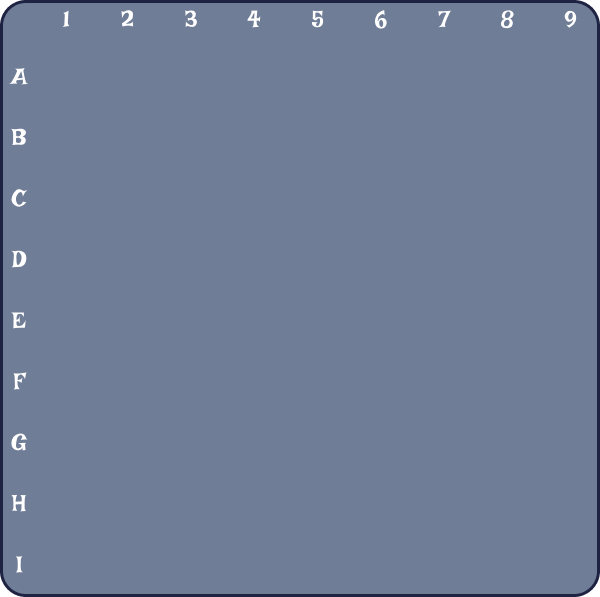
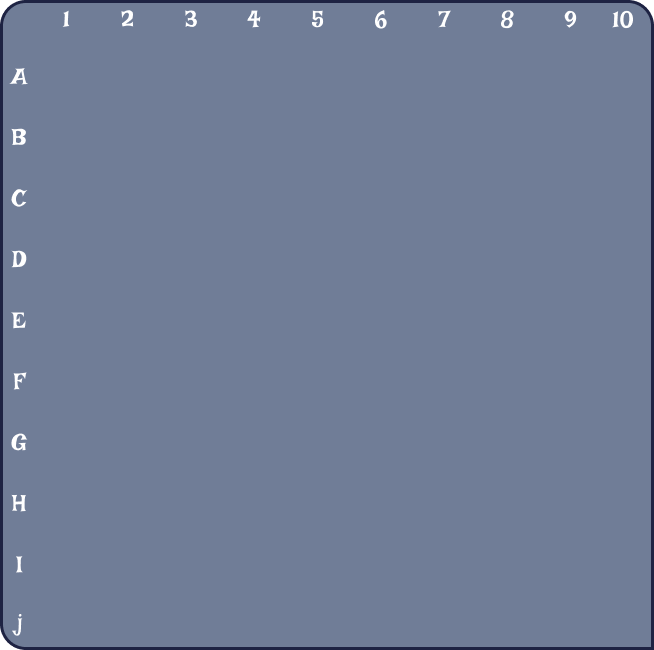
remake function of place ships

diff --git a/modules/classes/class_ship.py b/modules/classes/class_ship.py
@@ -1,6 +1,6 @@
 import pygame
 import os
-from ..screens import grid_player , list_grid
+from ..screens import grid_player , list_grid , list_object_map
 
  
 
@@ -22,9 +22,13 @@ class Ship:
         self.RECT = self.READY_IMAGE_SHIP.get_rect(topleft=(self.X_COR, self.Y_COR))#прямоугольник для того чтобы могли отслеживать курсор ли на кораблике или нет
         self.STASIC_X = self.X_COR # Static_x = это начальные координаты
         self.STASIC_Y = self.Y_COR # Static_y = это начальные координаты
-        self.number_ship = { # Словарь для хранения длины(координат) корабля 
-            self.LENGHT : [0]
-        }
+        self.number_cell = 0
+        self.row = 0
+        self.col = 0
+        self.number_ship_cell = 0
+        # self.number_ship = { # Словарь для хранения длины(координат) корабля 
+        #     self.LENGHT : [0]
+        # }
     
     # Метод загрузки картинок кораблей
     def load_image(self):
@@ -62,7 +66,7 @@ class Ship:
 
         # Учитываем, что клетки нумеруются с 1, поэтому:
         # Номер клетки = (строка * количество столбцов) + (столбец) + 1.
-        cell_number = row * 9 + col + 1
+        cell_number = row * 10 + col + 1
 
         # Возвращаем номер клетки.
         return cell_number
@@ -108,6 +112,8 @@ class Ship:
                         self.RECT = self.READY_IMAGE_SHIP.get_rect(topleft=(self.X_COR, self.Y_COR))
                         
     def matrix_move(self, event: pygame.event, matrix_width: int, matrix_height: int, cell: int):
+        
+        
         mouse = pygame.mouse.get_pos()  # Получаем текущие координаты мыши
 
         if event.type == pygame.MOUSEBUTTONDOWN and self.RECT.collidepoint(event.pos):
@@ -132,46 +138,92 @@ class Ship:
         elif event.type == pygame.MOUSEBUTTONUP and self.CHECK_MOVE:
             # Завершаем перемещение
             right_x = self.X_COR + self.WIDTH
-            print(right_x)
-            if grid_player.X_SCREEN <= self.X_COR and self.X_COR + self.RECT.width <= grid_player.X_SCREEN + 558:
-                if grid_player.Y_SCREEN <= self.Y_COR and self.Y_COR + self.RECT.height <= grid_player.Y_SCREEN + 558:
+            
+            if grid_player.X_SCREEN - 30 <= self.X_COR and self.X_COR + self.RECT.width <= grid_player.X_SCREEN + 650:
+                if grid_player.Y_SCREEN - 30 <= self.Y_COR and self.Y_COR + self.RECT.height <= grid_player.Y_SCREEN + 650:
                     self.snap_to_grid()
-                    number_ship_cell = self.center_to_cell_number(x = self.X_COR,y = self.Y_COR)
+                    self.number_ship_cell = self.center_to_cell_number(x = self.X_COR,y = self.Y_COR)
 
-                    if self.LENGHT == 4:
-                        self.number_ship[self.LENGHT] = [number_ship_cell]
-                        if self.ORIENTATION_SHIP == "horizontal":
-                            for coord_ship in range(1, self.LENGHT):
-                                self.number_ship[self.LENGHT].append(number_ship_cell + coord_ship)
-                        elif self.ORIENTATION_SHIP == "vertical":
-                            for coord_ship in range(1, self.LENGHT):
-                                self.number_ship[self.LENGHT].append(self.number_ship[self.LENGHT][-1] + 9)
-                    if self.LENGHT == 3:
-                        self.number_ship[self.LENGHT] = [number_ship_cell]
-                        if self.ORIENTATION_SHIP == "horizontal":
-                            for coord_ship in range(1, self.LENGHT):
-                                self.number_ship[self.LENGHT].append(number_ship_cell + coord_ship)
-                        elif self.ORIENTATION_SHIP == "vertical":
-                            for coord_ship in range(1, self.LENGHT):
-                                self.number_ship[self.LENGHT].append(self.number_ship[self.LENGHT][-1] + 9)
-                    if self.LENGHT == 2:
-                        self.number_ship[self.LENGHT] = [number_ship_cell]
-                        if self.ORIENTATION_SHIP == "horizontal":
-                            for coord_ship in range(1, self.LENGHT):
-                                self.number_ship[self.LENGHT].append(number_ship_cell + coord_ship)
-                        elif self.ORIENTATION_SHIP == "vertical":
-                            for coord_ship in range(1, self.LENGHT):
-                                self.number_ship[self.LENGHT].append(self.number_ship[self.LENGHT][-1] + 9)
-                    if self.LENGHT == 1:
-                        self.number_ship[self.LENGHT] = [number_ship_cell]
-                        if self.ORIENTATION_SHIP == "horizontal":
-                            for coord_ship in range(1, self.LENGHT):
-                                self.number_ship[self.LENGHT].append(number_ship_cell + coord_ship)
-                        elif self.ORIENTATION_SHIP == "vertical":
-                            for coord_ship in range(1, self.LENGHT):
-                                self.number_ship[self.LENGHT].append(self.number_ship[self.LENGHT][-1] + 9)
-                        
-                    print(self.number_ship[self.LENGHT])
+                    if self.number_ship_cell != self.number_cell:
+                        for i in range(0 , self.LENGHT + 1):
+                            list_grid[self.row][self.col + i] = 0
+
+                    print(list_grid)
+                    print("------------------------------------------------------------------------------------------------")
+
+                    # for idx, value in enumerate(list_grid[0]):
+                    #         if idx != self.number_cell:
+                    #             list_grid[0][idx] = 0
+
+                    for cell in list_object_map: 
+                            if cell.x <= self.X_COR and self.X_COR < cell.x + 62:
+                                if cell.y <= self.Y_COR and self.Y_COR < cell.y + 62:
+                                    # Узнаем номер клетки где стоит кораблик
+                                    self.number_cell = list_object_map.index(cell)
+                                    # Переделываем значение клетки в строку чтобы можно было лекго узнать в калоночке он стоит
+                                    str_col = str(self.number_cell)
+                                    # Вычисляем номер столбца где стоит корабль(например 23 , делим на 10 без остатка и получаем 2 , вот нашь столбец)
+                                    self.row = self.number_cell // 10  
+                                    print(self.row)
+                                    #Колонку кораблика вычисляем по такому принципу
+                                    # Например опять 23 число номер колонки где стоит корабль , тогда с помощью -1 мы берем последнее число тоесть тройку, и вот так получаем номер колонки
+                                    self.col = int(str_col[-1])
+                                    # for lenght_ship in list_grid[row]:
+                                        # Устанавливаем значение где стоит корабль в матрице
+                                    for i in range(0 , self.LENGHT):
+                                        list_grid[self.row][self.col + i] = self.LENGHT
+                    print("------------------------------------------------------------------------------------------------")
+                    print(list_grid)
+                    
+                    
+
+                    # for check in list_grid[row]:
+                    #     if check == self.LENGHT:
+                    #         list_grid[row][col] = 0
+
+                    # for i in list_grid[0]:
+                    #     if list_grid[0].index(i) != number_cell:
+                    #         print(list_grid[0].index(i))
+                    #         list_grid[0][i] = 0
+                    # for idx, value in enumerate(list_grid[0]):
+                    #         if idx != self.number_cell:
+                    #             list_grid[0][idx] = 0
+
+                    
+                            
+                    # if self.LENGHT == 4:
+                    #     self.number_ship[self.LENGHT] = [number_ship_cell]
+                    #     if self.ORIENTATION_SHIP == "horizontal":
+                    #         for coord_ship in range(1, self.LENGHT):
+                    #             self.number_ship[self.LENGHT].append(number_ship_cell + coord_ship)
+                    #     elif self.ORIENTATION_SHIP == "vertical":
+                    #         for coord_ship in range(1, self.LENGHT):
+                    #             self.number_ship[self.LENGHT].append(self.number_ship[self.LENGHT][-1] + 10)
+                    # if self.LENGHT == 3:
+                    #     self.number_ship[self.LENGHT] = [number_ship_cell]
+                    #     if self.ORIENTATION_SHIP == "horizontal":
+                    #         for coord_ship in range(1, self.LENGHT):
+                    #             self.number_ship[self.LENGHT].append(number_ship_cell + coord_ship)
+                    #     elif self.ORIENTATION_SHIP == "vertical":
+                    #         for coord_ship in range(1, self.LENGHT):
+                    #             self.number_ship[self.LENGHT].append(self.number_ship[self.LENGHT][-1] + 10)
+                    # if self.LENGHT == 2:
+                    #     self.number_ship[self.LENGHT] = [number_ship_cell]
+                    #     if self.ORIENTATION_SHIP == "horizontal":
+                    #         for coord_ship in range(1, self.LENGHT):
+                    #             self.number_ship[self.LENGHT].append(number_ship_cell + coord_ship)
+                    #     elif self.ORIENTATION_SHIP == "vertical":
+                    #         for coord_ship in range(1, self.LENGHT):
+                    #             self.number_ship[self.LENGHT].append(self.number_ship[self.LENGHT][-1] + 10)
+                    # if self.LENGHT == 1:
+                    #     self.number_ship[self.LENGHT] = [number_ship_cell]
+                    #     if self.ORIENTATION_SHIP == "horizontal":
+                    #         for coord_ship in range(1, self.LENGHT):
+                    #             self.number_ship[self.LENGHT].append(number_ship_cell + coord_ship)
+                    #     elif self.ORIENTATION_SHIP == "vertical":
+                    #         for coord_ship in range(1, self.LENGHT):
+                    #             self.number_ship[self.LENGHT].append(self.number_ship[self.LENGHT][-1] + 10)
+                    # print(self.number_ship[self.LENGHT])
                 else:
                     self.X_COR, self.Y_COR = self.STASIC_X, self.STASIC_Y
                     self.RECT = self.IMAGE_ROTATE_SHIP.get_rect(topleft=(self.X_COR, self.Y_COR))

diff --git a/modules/screens/create_grid.py b/modules/screens/create_grid.py
@@ -35,12 +35,12 @@ class Grid:
         x_screen , y_screen = self.X_SCREEN , self.Y_SCREEN
         for row in list_grid:
             for cell in row:
-                if cell == "c":
+                if cell == 0:
                     empty_cell = Cell(x = x_screen , y = y_screen ,width = 62 , height = 62 , image_name = "empty_cell.png")
                     list_object_map.append(empty_cell)
                 x_screen += 62
             y_screen += 62
-            x_screen = 80
+            x_screen = 81
     def snap_to_grid(self, x, y):
     # Рассчитываем индекс столбца сетки (grid_x), в который попадает точка (x)-координата корабля.
     # 1. Вычитаем координату начала сетки по X (self.X_SCREEN), чтобы получить относительное положение.
@@ -56,11 +56,11 @@ class Grid:
     
     # Ограничиваем индекс столбца (grid_x) в пределах от 0 до 8 (максимальное количество столбцов минус 1).
     # Если координата выходит за пределы сетки, она будет приведена к ближайшей границе.
-        grid_x = max(0, min(9 - 1, grid_x))
+        grid_x = max(0, min(10 - 1, grid_x))
     
     # Ограничиваем индекс строки (grid_y) в пределах от 0 до 8 (максимальное количество строк минус 1).
     # Если координата выходит за пределы сетки, она будет приведена к ближайшей границе.
-        grid_y = max(0, min(9 - 1, grid_y))
+        grid_y = max(0, min(10 - 1, grid_y))
     
     # Возвращаем координаты центра привязанной ячейки:
     # 1. Рассчитываем экранные координаты центра ячейки по X:
@@ -68,4 +68,4 @@ class Grid:
     # 2. Аналогично, рассчитываем экранные координаты центра ячейки по Y.
         return self.X_SCREEN + grid_x * 62, self.Y_SCREEN + grid_y * 62
     
-grid_player = Grid(x_screen = 81 , y_screen = 127)
+grid_player = Grid(x_screen = 81 , y_screen = 128)

diff --git a/modules/run_game/start_game.py b/modules/run_game/start_game.py
@@ -64,7 +64,7 @@ second_cold_image = DrawImage(width= 152 , height= 68 , x_cor= 940, y_cor= 716 ,
 third_cold_image = DrawImage(width=  150, height= 68 , x_cor= 536 , y_cor= 705 , folder_name= "decorations" , image_name= "ice.png")
 fourth_cold_image = DrawImage(width= 150, height= 68 , x_cor= 686 , y_cor= 705 , folder_name= "decorations" , image_name= "ice.png")
 #image for the grid
-grid_image = DrawImage(width = 600 , height = 597 , x_cor = 40 , y_cor = 89 , folder_name = "grid", image_name = "background_grid.png")
+grid_image = DrawImage(width = 662  , height = 662 , x_cor = 40 , y_cor = 89 , folder_name = "grid", image_name = "background_grid.png")
 
 
 #backgrounds
@@ -113,7 +113,7 @@ def main_window():
                 run_game = False
                 x_pos , y_pos = pygame.mouse.get_pos()
                 if x_pos > 600:
-                    change_scene(join_game_window())
+                    change_scene(ships_position_window())
                 elif x_pos < 600:
                     change_scene(create_game_window())
             elif event.type == pygame.MOUSEBUTTONDOWN:
@@ -303,7 +303,7 @@ def ships_position_window():
         for event in pygame.event.get():
             for ship in list_ships:
                 ship.rotate_ship(event = event)
-                ship.matrix_move(event = event, matrix_width = 558, matrix_height = 558, cell = 81)
+                ship.matrix_move(event = event, matrix_width = 620, matrix_height = 620, cell = 100)
 
             if event.type == pygame.QUIT:
                 run_game = False  

diff --git a/modules/screens/list_grid.py b/modules/screens/list_grid.py
@@ -1,13 +1,14 @@
 list_grid = [
-    ['c' , 'c' , 'c' , 'c' , 'c' , 'c' , 'c' , 'c' , 'c'],
-    ['c' , 'c' , 'c' , 'c' , 'c' , 'c' , 'c' , 'c' , 'c'],
-    ['c' , 'c' , 'c' , 'c' , 'c' , 'c' , 'c' , 'c' , 'c'],
-    ['c' , 'c' , 'c' , 'c' , 'c' , 'c' , 'c' , 'c' , 'c'],
-    ['c' , 'c' , 'c' , 'c' , 'c' , 'c' , 'c' , 'c' , 'c'],
-    ['c' , 'c' , 'c' , 'c' , 'c' , 'c' , 'c' , 'c' , 'c'],
-    ['c' , 'c' , 'c' , 'c' , 'c' , 'c' , 'c' , 'c' , 'c'],
-    ['c' , 'c' , 'c' , 'c' , 'c' , 'c' , 'c' , 'c' , 'c'],
-    ['c' , 'c' , 'c' , 'c' , 'c' , 'c' , 'c' , 'c' , 'c']
+    [0 , 0 , 0 , 0 , 0 , 0 , 0 , 0 , 0 , 0],
+    [0 , 0 , 0 , 0 , 0 , 0 , 0 , 0 , 0 , 0],
+    [0 , 0 , 0 , 0 , 0 , 0 , 0 , 0 , 0 , 0],
+    [0 , 0 , 0 , 0 , 0 , 0 , 0 , 0 , 0 , 0],
+    [0 , 0 , 0 , 0 , 0 , 0 , 0 , 0 , 0 , 0],
+    [0 , 0 , 0 , 0 , 0 , 0 , 0 , 0 , 0 , 0],
+    [0 , 0 , 0 , 0 , 0 , 0 , 0 , 0 , 0 , 0],
+    [0 , 0 , 0 , 0 , 0 , 0 , 0 , 0 , 0 , 0],
+    [0 , 0 , 0 , 0 , 0 , 0 , 0 , 0 , 0 , 0],
+    [0 , 0 , 0 , 0 , 0 , 0 , 0 , 0 , 0 , 0]
 ]
 
 #c - cell(пуста клітинка)
